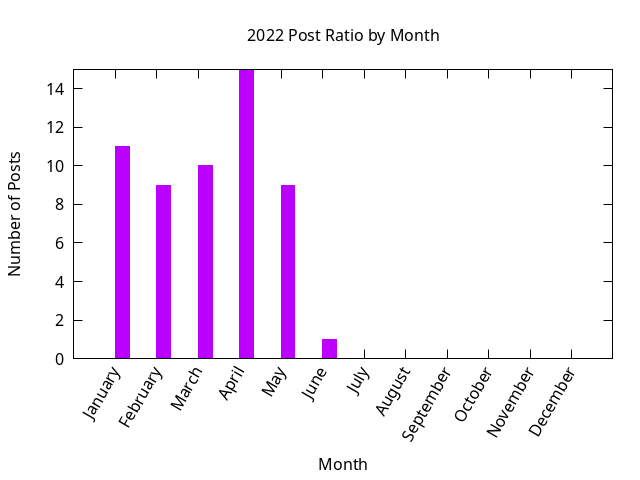
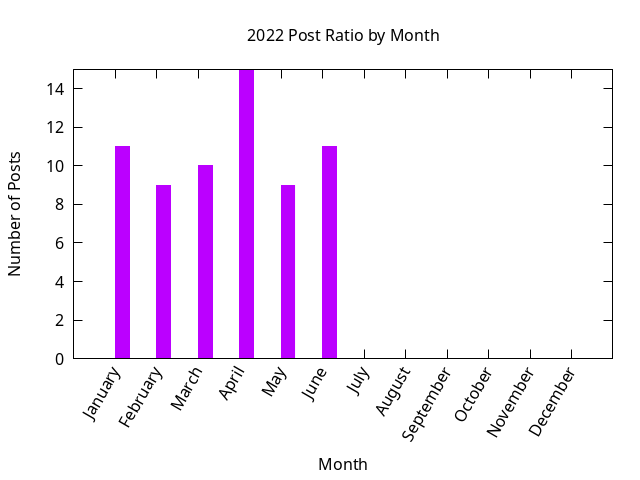
Stats update.
Also push some missing images

Changed region(s): [[0.5, 0.2812, 0.5312, 0.7188]]

diff --git a/_includes/stats/2022.md b/_includes/stats/2022.md
@@ -1,33 +1,34 @@
 <a name="2022" />
 ## 2022 (work in progress)
 
-**55 total posts** have been written on 2022.
-There have been *23 different tags* used, the most
+**65 total posts** have been written on 2022.
+There have been *24 different tags* used, the most
 popular being (sorted by number of posts):
  
-- *raku* (28 posts)  
-- *perlweeklychallenge* (28 posts)  
-- *perl* (19 posts)  
-- *postgresql* (12 posts)  
-- *planet-postgresql-org* (11 posts)  
+- *raku* (31 posts)  
+- *perlweeklychallenge* (31 posts)  
+- *perl* (23 posts)  
+- *postgresql* (16 posts)  
+- *planet-postgresql-org* (15 posts)  
 - *linux* (8 posts)  
+- *emacs* (5 posts)  
 - *java* (4 posts)  
 - *oracle* (4 posts)  
-- *emacs* (3 posts)  
-- *pgagroal* (2 posts)  
+- *pgagroal* (3 posts)  
+- *freebsd* (2 posts)  
+- *pgenv* (2 posts)  
 - *shell* (2 posts)  
 - *programming* (2 posts)  
 - *zsh* (2 posts)  
-- *freebsd* (2 posts)  
-- *php* (1 posts)  
-- *vitualbox* (1 posts)  
-- *pgbadger* (1 posts)  
+- *sqlite3* (1 posts)  
 - *pgmoneta* (1 posts)  
+- *vitualbox* (1 posts)  
 - *university* (1 posts)  
 - *openbsd* (1 posts)  
-- *pgenv* (1 posts)  
-- *sqlite3* (1 posts)  
-- *c* (1 posts).<br/>
+- *c* (1 posts)  
+- *git* (1 posts)  
+- *pgbadger* (1 posts)  
+- *php* (1 posts).<br/>
 <br/>
 The following is the overall 2022 post ratio by month:
 <br/>
@@ -46,7 +47,7 @@ The following is the overall 2022 post ratio by tag (showing max 30 tags):
 
 <div align="right">
 <small>
-Last generated on 2022-06-06 at 15:37
+Last generated on 2022-06-30 at 10:06
 </small>
 </div>
 
